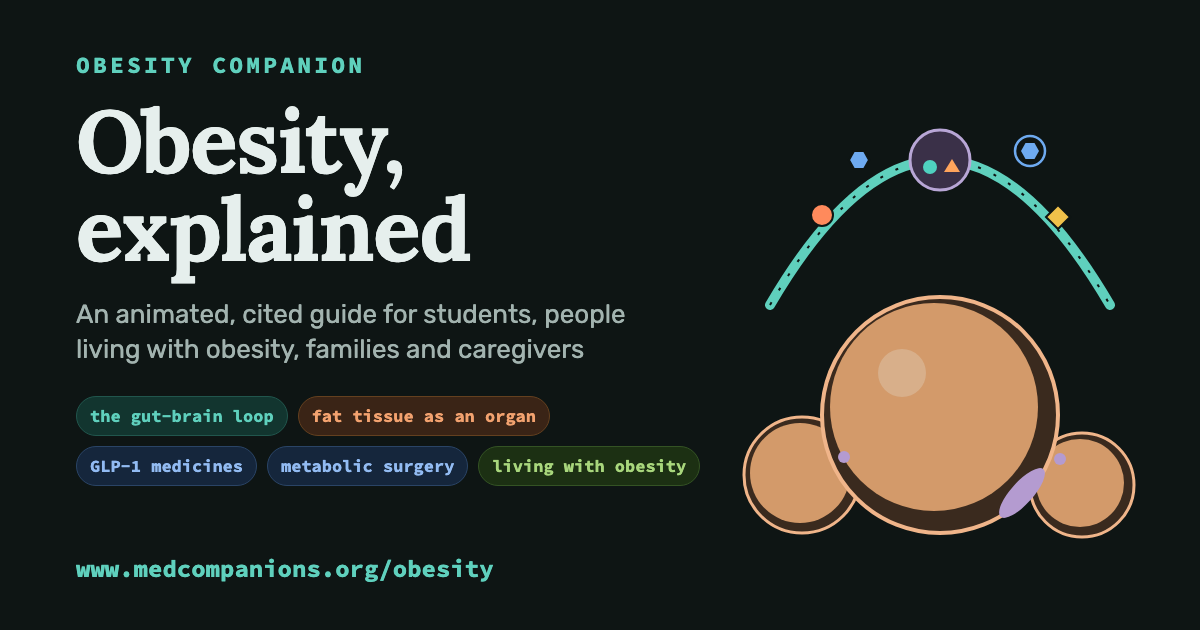
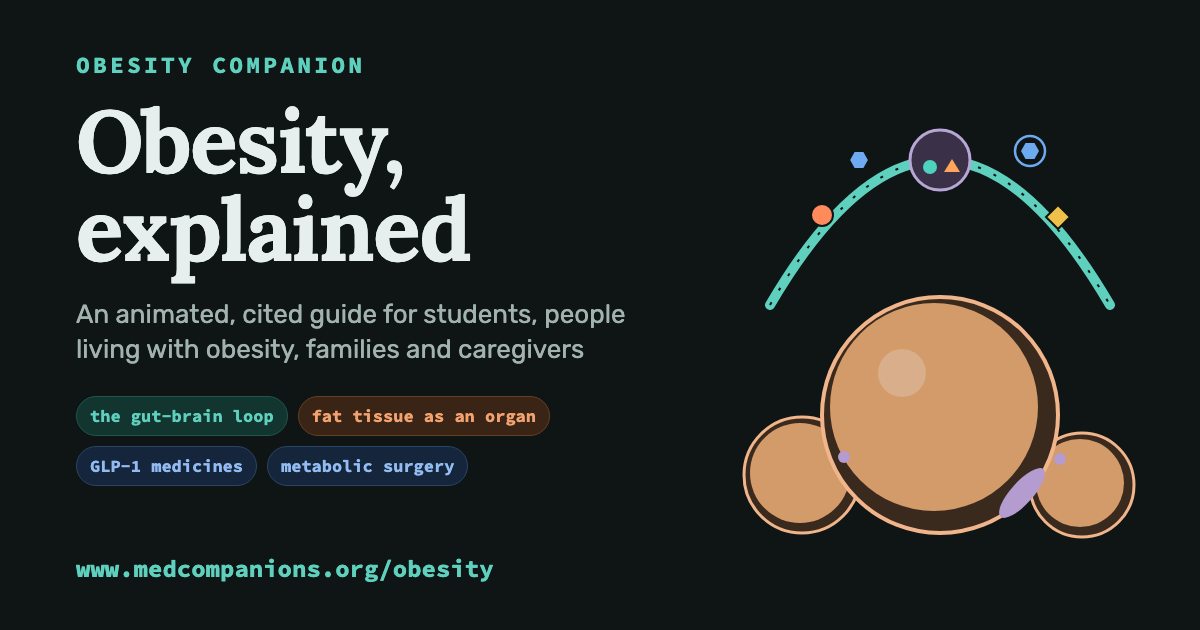
Obesity Companion: share card checkpoint

Changed region(s): [[0.4008, 0.6937, 0.5858, 0.7841]]

diff --git a/obesity/src/share-card.html b/obesity/src/share-card.html
@@ -14,7 +14,7 @@ p{font-size:26px;line-height:1.36;color:#a2b3af;margin:0 0 28px;max-width:600px}
 svg{position:absolute;right:50px;top:55px;width:420px;height:520px}
 </style></head><body>
 <div class="l"><div class="k">Obesity Companion</div><h1>Obesity, explained</h1><p>An animated, cited guide for students, people living with obesity, families and caregivers</p>
-<div class="chips"><span class="a">the gut-brain loop</span><span class="c">fat tissue as an organ</span><span class="b">GLP-1 medicines</span><span class="b">metabolic surgery</span><span class="d">living with obesity</span></div></div>
+<div class="chips"><span class="a">the gut-brain loop</span><span class="c">fat tissue as an organ</span><span class="b">GLP-1 medicines</span><span class="b">metabolic surgery</span></div></div>
 <div class="url">%HOST%/obesity</div>
 <svg viewBox="0 0 420 520" aria-hidden="true">
   <!-- the brain's arc over a fat cell, with signals travelling up and down it -->
